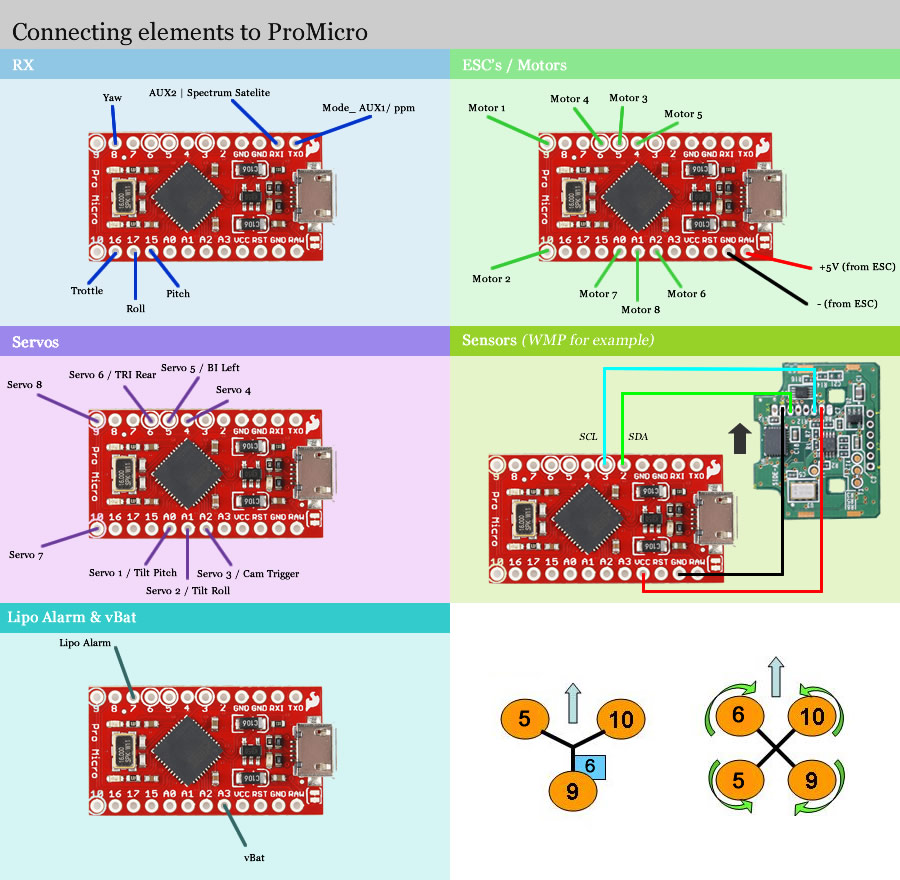
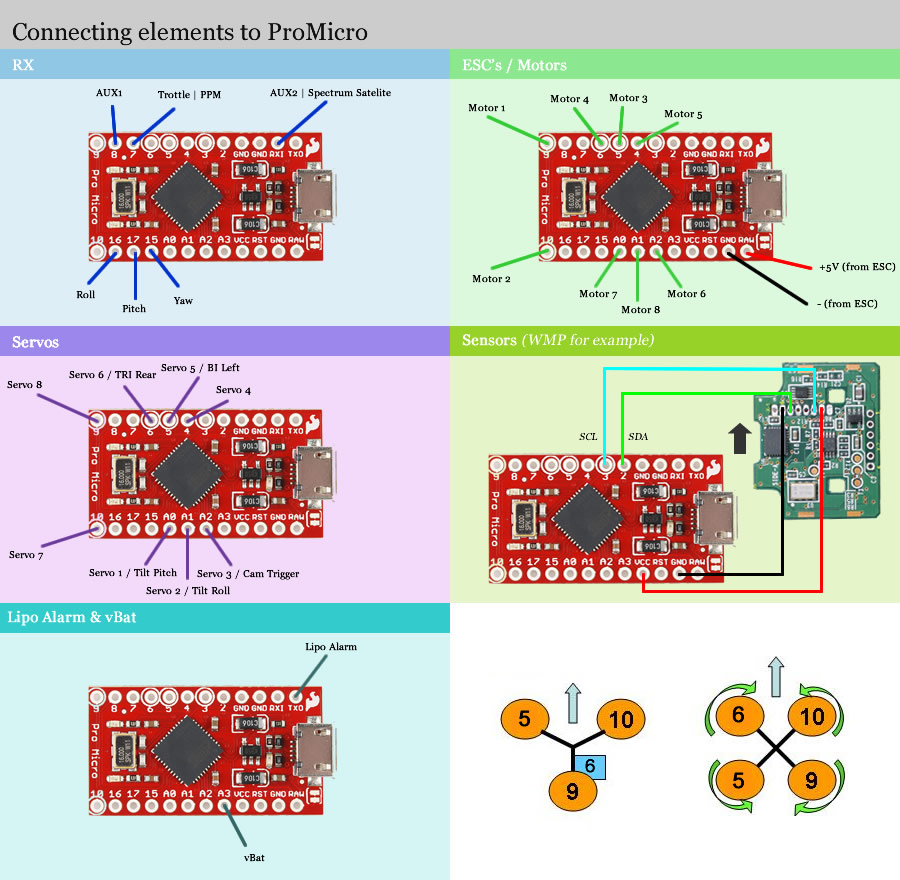
Changed RX pin layout for better pin usage

diff --git a/def.h b/def.h
@@ -121,9 +121,9 @@
   #define LEDPIN_TOGGLE              PIND |= 1<<5;     //switch LEDPIN state (Port D5)
   #define LEDPIN_OFF                 PORTD &= ~(1<<5);
   #define LEDPIN_ON                  PORTD |= (1<<5);
-  #define BUZZERPIN_PINMODE          pinMode (7, OUTPUT);
-  #define BUZZERPIN_ON               PORTE |= 1<<6;
-  #define BUZZERPIN_OFF              PORTE &= ~(1<<6);
+  #define BUZZERPIN_PINMODE          pinMode (1, OUTPUT);
+  #define BUZZERPIN_ON               PORTD |= 1<<3;
+  #define BUZZERPIN_OFF              PORTD &= ~(1<<3);
   #define POWERPIN_PINMODE           //
   #define POWERPIN_ON                //
   #define POWERPIN_OFF               //

diff --git a/config.h b/config.h
@@ -58,6 +58,9 @@
 //#define RCAUXPIN8
 //#define RCAUXPIN12
 
+//aux2 pin for promicro (on pin RX0)
+//#define RCAUX2PIN
+
 /* This option is here if you want to use the old level code from the verison 1.7
    It's just to have some feedback. This will be removed in the future */
 //#define STAB_OLD_17
